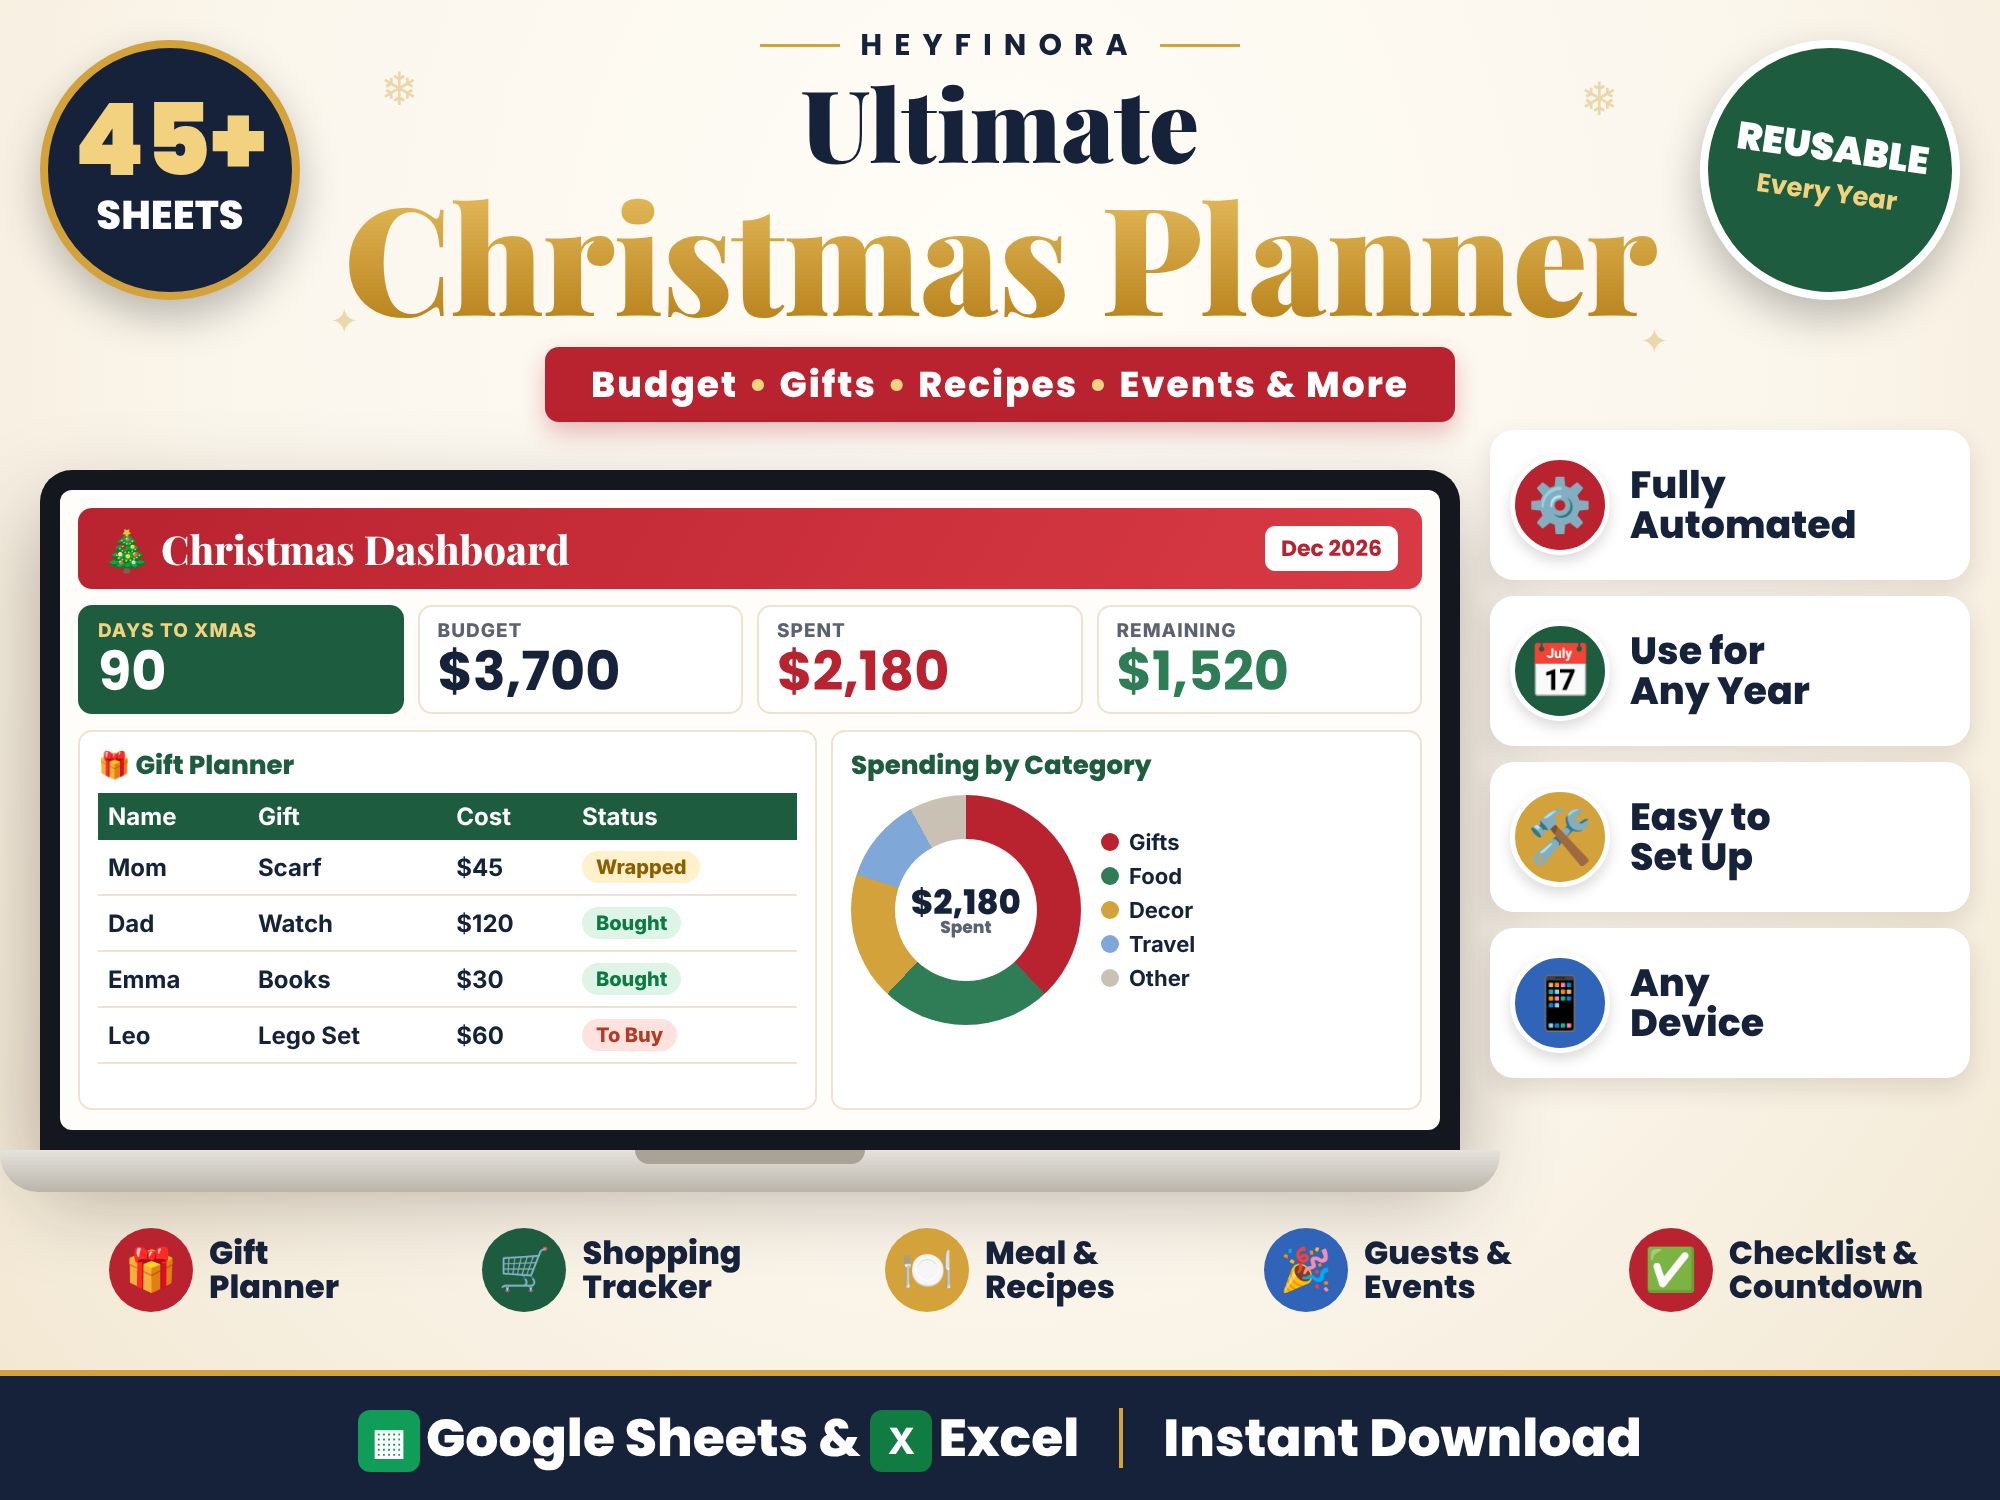
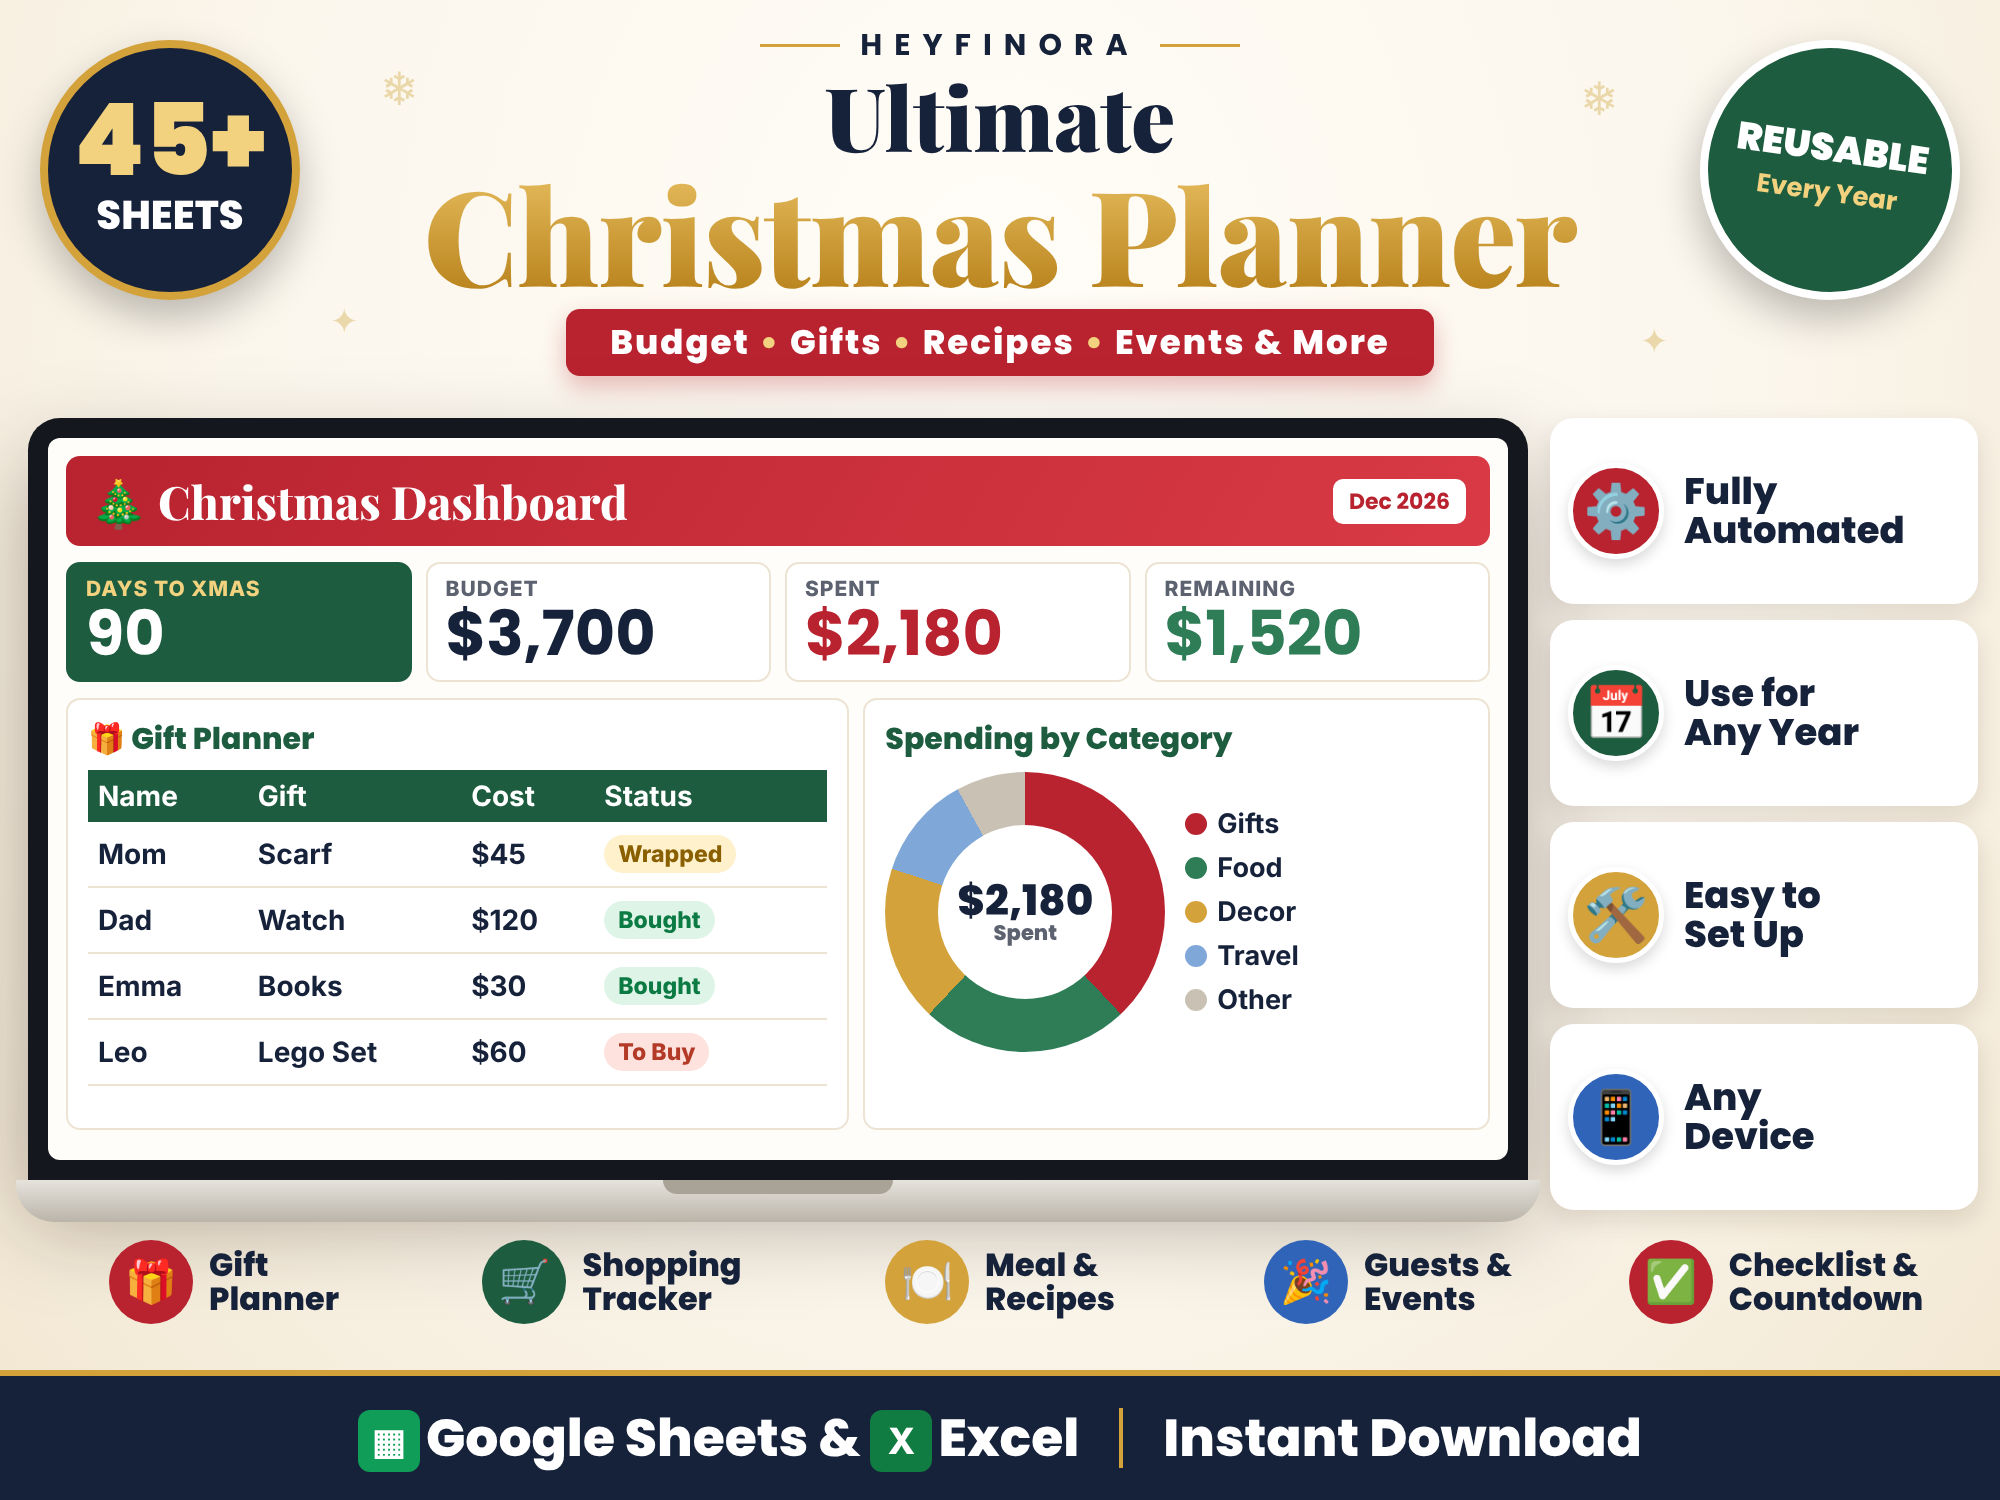
Christmas Planner thumbnail: zoom dashboard further
Claude-Session: https://claude.ai/code/session_01JXSyMovszCbL9FMwkaUbGU

diff --git a/images/src/christmas-planner-thumbnail.html b/images/src/christmas-planner-thumbnail.html
@@ -11,9 +11,9 @@ body{background:#777;font-family:Inter,sans-serif;color:var(--navy)}
 .brand{display:inline-flex;align-items:center;gap:20px;font-family:Poppins;font-weight:700;font-size:30px;letter-spacing:12px;color:var(--navy)}
 .brand:before,.brand:after{content:"";width:80px;height:3px;background:var(--gold)}
 h1{font-family:'Playfair Display',serif;font-weight:900;line-height:.95;margin-top:4px}
-h1 .u{display:block;line-height:1;font-size:100px;color:var(--navy)}
-h1 .cx{display:inline-block;white-space:nowrap;line-height:1.1;font-size:150px;padding:0 10px;background:linear-gradient(180deg,#E9C062,#B57E17);-webkit-background-clip:text;color:transparent;letter-spacing:-1px}
-.rib{display:inline-block;margin-top:10px;background:var(--red);color:#fff;font-family:Poppins;font-weight:800;font-size:36px;letter-spacing:2px;padding:10px 46px;border-radius:14px;box-shadow:0 10px 24px rgba(184,35,47,.3)}
+h1 .u{display:block;line-height:1;font-size:88px;color:var(--navy)}
+h1 .cx{display:inline-block;white-space:nowrap;line-height:1.1;font-size:132px;padding:0 10px;background:linear-gradient(180deg,#E9C062,#B57E17);-webkit-background-clip:text;color:transparent;letter-spacing:-1px}
+.rib{display:inline-block;margin-top:4px;background:var(--red);color:#fff;font-family:Poppins;font-weight:800;font-size:34px;letter-spacing:2px;padding:8px 44px;border-radius:14px;box-shadow:0 10px 24px rgba(184,35,47,.3)}
 .rib b{color:var(--gold2);margin:0 10px}
 .round{position:absolute;width:260px;height:260px;border-radius:50%;display:grid;place-items:center;text-align:center;box-shadow:0 18px 40px rgba(0,0,0,.25)}
 .sheets{left:40px;top:40px;background:var(--navy);color:#fff;border:8px solid var(--gold)}
@@ -21,36 +21,36 @@ h1 .cx{display:inline-block;white-space:nowrap;line-height:1.1;font-size:150px;p
 .reuse{right:40px;top:40px;background:var(--green);color:#fff;border:8px solid #fff;transform:rotate(8deg)}
 .reuse b{font-family:Poppins;font-weight:900;font-size:38px;line-height:1;display:block}.reuse small{font-family:Poppins;font-weight:700;font-size:26px;color:var(--gold2);display:block;margin-top:6px}
 /* laptop */
-.laptop{position:absolute;left:40px;top:470px;width:1420px}
+.laptop{position:absolute;left:28px;top:418px;width:1500px}
 .screen{background:#14171d;border-radius:32px 32px 0 0;padding:20px;box-shadow:0 40px 90px rgba(40,20,10,.35)}
-.base{height:42px;background:linear-gradient(#e6e3dd,#bab4a9);border-radius:0 0 38px 38px;margin:0 -40px;position:relative}
+.base{height:42px;background:linear-gradient(#e6e3dd,#bab4a9);border-radius:0 0 38px 38px;margin:0 -12px;position:relative}
 .base:after{content:"";position:absolute;left:50%;top:0;transform:translateX(-50%);width:230px;height:14px;background:#a9a296;border-radius:0 0 14px 14px}
-.app{background:#FFFDF9;border-radius:12px;height:640px;overflow:hidden;padding:18px}
-.ah{background:linear-gradient(120deg,var(--red),var(--red2));color:#fff;border-radius:14px;padding:14px 24px;font-family:'Playfair Display',serif;font-weight:800;font-size:40px;display:flex;justify-content:space-between;align-items:center}
+.app{background:#FFFDF9;border-radius:12px;height:722px;overflow:hidden;padding:18px}
+.ah{background:linear-gradient(120deg,var(--red),var(--red2));color:#fff;border-radius:14px;padding:14px 24px;font-family:'Playfair Display',serif;font-weight:800;font-size:46px;display:flex;justify-content:space-between;align-items:center}
 .ah span{font-family:Poppins;font-size:22px;font-weight:700;background:#fff;color:var(--red);padding:6px 16px;border-radius:10px}
 .kpis{display:grid;grid-template-columns:repeat(4,1fr);gap:14px;margin:16px 0}
 .k{border:2px solid var(--line);border-radius:14px;padding:12px 18px;background:#fff}
-.k p{font-size:19px;font-weight:800;color:var(--muted);letter-spacing:1px}.k h3{font-family:Poppins;font-size:54px;line-height:1.08}
+.k p{font-size:21px;font-weight:800;color:var(--muted);letter-spacing:1px}.k h3{font-family:Poppins;font-size:62px;line-height:1.08}
 .k.cd{background:var(--green);border-color:var(--green);color:#fff}.k.cd p{color:var(--gold2)}
 .cards{display:grid;grid-template-columns:1.25fr 1fr;gap:14px}
-.c{background:#fff;border:2px solid var(--line);border-radius:14px;padding:14px 18px;height:380px}
-.c h4{font-family:Poppins;font-weight:800;font-size:26px;color:var(--green);margin-bottom:8px}
-table{width:100%;border-collapse:collapse;font-size:24px}
+.c{background:#fff;border:2px solid var(--line);border-radius:14px;padding:16px 20px;height:432px}
+.c h4{font-family:Poppins;font-weight:800;font-size:30px;color:var(--green);margin-bottom:8px}
+table{width:100%;border-collapse:collapse;font-size:28px}
 th{background:var(--green);color:#fff;text-align:left;padding:9px 10px;font-weight:700}
-td{padding:11px 10px;border-bottom:2px solid var(--line);font-weight:700}
-.ch{display:inline-block;padding:4px 14px;border-radius:999px;font-size:20px;font-weight:800}
+td{padding:13px 10px;border-bottom:2px solid var(--line);font-weight:700}
+.ch{display:inline-block;padding:5px 14px;border-radius:999px;font-size:23px;font-weight:800}
 .bo{background:#DDF4E7;color:#0B7A43}.wr{background:#FFF1CC;color:#8A5F00}.td{background:#FDE2DD;color:#B33A26}
 .dw{display:flex;align-items:center;gap:20px;margin-top:10px}
-.donut{width:230px;height:230px;border-radius:50%;background:conic-gradient(var(--red) 0 38%,var(--green2) 0 62%,var(--gold) 0 80%,#7FA8D8 0 92%,#C9C2B4 0);display:grid;place-items:center;flex:none}
-.donut div{width:142px;height:142px;border-radius:50%;background:#fff;display:grid;place-items:center;font-family:Poppins;font-weight:800;font-size:34px;text-align:center;line-height:1}
-.donut small{display:block;font-size:17px;color:var(--muted)}
-.lg div{display:flex;align-items:center;gap:10px;font-size:22px;font-weight:700;margin:8px 0}.lg i{width:18px;height:18px;border-radius:50%;display:inline-block}
+.donut{width:280px;height:280px;border-radius:50%;background:conic-gradient(var(--red) 0 38%,var(--green2) 0 62%,var(--gold) 0 80%,#7FA8D8 0 92%,#C9C2B4 0);display:grid;place-items:center;flex:none}
+.donut div{width:174px;height:174px;border-radius:50%;background:#fff;display:grid;place-items:center;font-family:Poppins;font-weight:800;font-size:42px;text-align:center;line-height:1}
+.donut small{display:block;font-size:21px;color:var(--muted)}
+.lg div{display:flex;align-items:center;gap:10px;font-size:27px;font-weight:700;margin:11px 0}.lg i{width:22px;height:22px;border-radius:50%;display:inline-block}
 /* right features */
-.side{position:absolute;right:30px;top:430px;width:480px;display:flex;flex-direction:column;gap:16px}
-.s{display:flex;align-items:center;gap:20px;background:#fff;border-radius:24px;padding:16px 20px;box-shadow:0 10px 26px rgba(40,20,10,.12);font-family:Poppins;font-weight:800;font-size:38px;line-height:1.05;color:var(--navy);height:150px}
-.s em{font-style:normal;width:100px;height:100px;border-radius:50%;display:grid;place-items:center;font-size:52px;flex:none;border:5px solid #fff;box-shadow:0 6px 14px rgba(0,0,0,.15)}
+.side{position:absolute;right:22px;top:418px;width:428px;display:flex;flex-direction:column;gap:16px}
+.s{display:flex;align-items:center;gap:20px;background:#fff;border-radius:24px;padding:16px 18px;box-shadow:0 10px 26px rgba(40,20,10,.12);font-family:Poppins;font-weight:800;font-size:37px;line-height:1.05;color:var(--navy);height:186px}
+.s em{font-style:normal;width:96px;height:96px;border-radius:50%;display:grid;place-items:center;font-size:52px;flex:none;border:5px solid #fff;box-shadow:0 6px 14px rgba(0,0,0,.15)}
 /* bottom */
-.icons{position:absolute;left:0;right:0;top:1228px;display:grid;grid-template-columns:repeat(5,1fr);padding:0 30px}
+.icons{position:absolute;left:0;right:0;top:1240px;display:grid;grid-template-columns:repeat(5,1fr);padding:0 30px}
 .ic{display:flex;align-items:center;gap:16px;justify-content:center;font-family:Poppins;font-weight:800;font-size:32px;line-height:1.05;color:var(--navy)}
 .ic em{font-style:normal;width:84px;height:84px;border-radius:50%;display:grid;place-items:center;font-size:42px;flex:none}
 .foot{position:absolute;left:0;right:0;bottom:0;height:130px;background:var(--navy);display:flex;align-items:center;justify-content:center;gap:40px;color:#fff;font-family:Poppins;font-weight:800;font-size:52px;border-top:6px solid var(--gold)}
